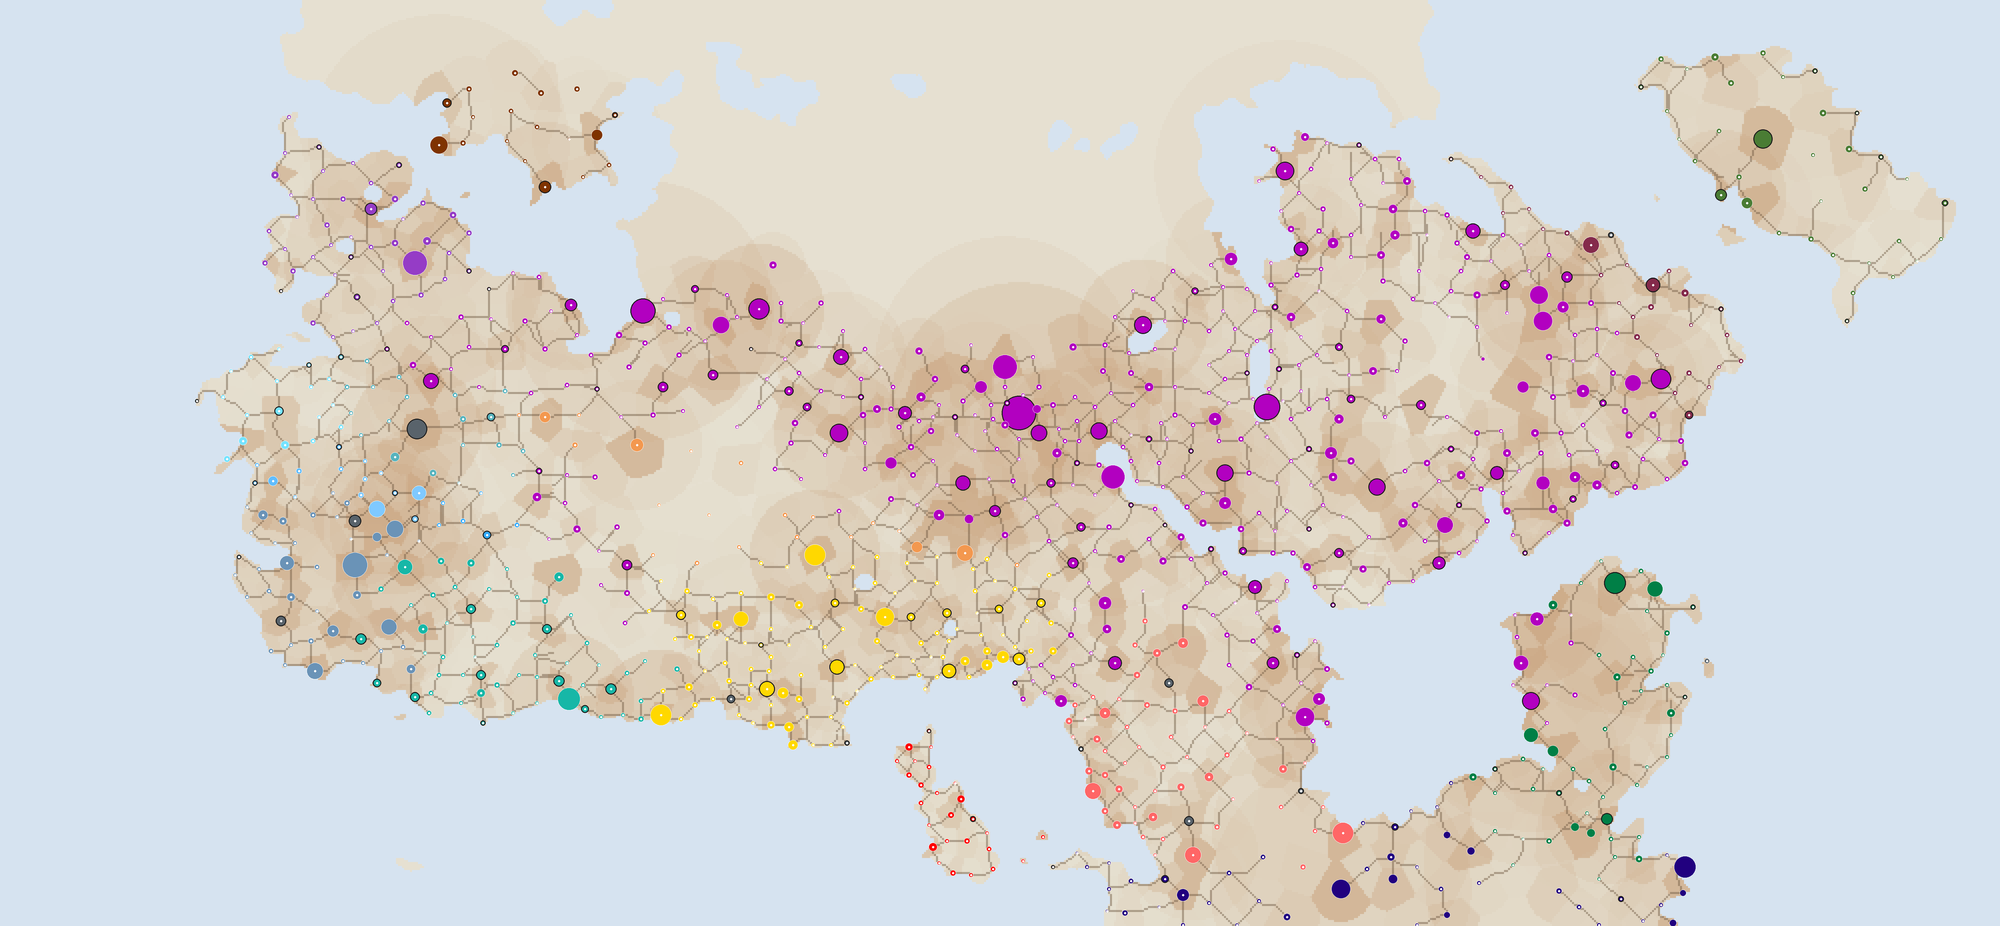
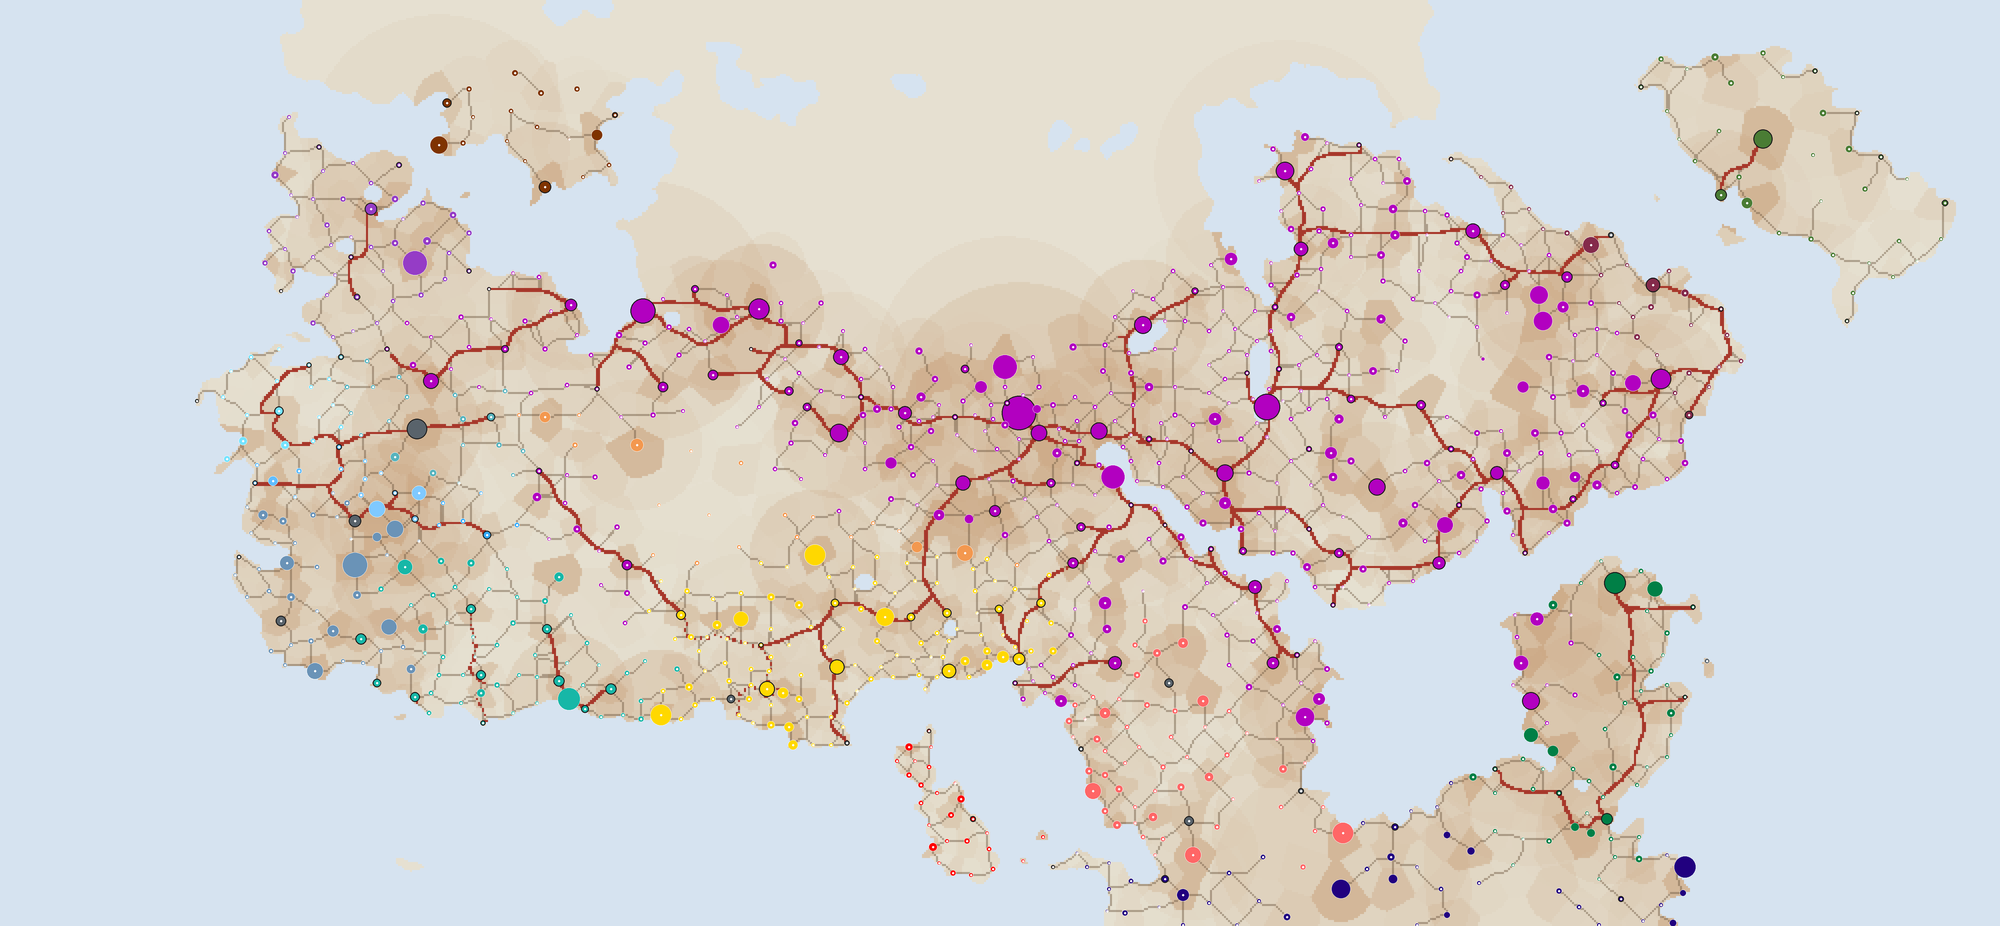
Settlements map: draw the main roads (minor tracks that seemed to end nowhere join them); white centres reproduced exactly
Claude-Session: https://claude.ai/code/session_01A8CRvxuUPVrZxyYzNDWcYn

diff --git a/scripts/publish_settlement_release3.py b/scripts/publish_settlement_release3.py
@@ -5,7 +5,8 @@ import numpy as np
 
 ROOT = Path(__file__).resolve().parents[1]; sys.path[:0] = [str(ROOT), str(ROOT / 'scripts')]
 from settlement_locations_earth import sha, write
-from publish_settlement_release2 import render
+from publish_settlement_release2 import render, main_roads
+ROADS_ITEM = dict(color='#a8382b', label='Red lines: the map’s drawn main roads (minor tracks end on them)')
 
 OUT = ROOT / 'output/settlement_release3_20261113'; DATA = ROOT / 'atlases/earth_fit/data'
 
@@ -26,7 +27,7 @@ def main():
         csv_file = target / mode / 'towns.csv'; shutil.copyfile(OUT / f'placed_{mode}_towns.csv', csv_file); options = []
         for scenario, label, role in (('central', 'sliding 100–500 people/ha', 'published method'), ('low', 'flat 100 people/ha', 'cautious alternative')):
             r = c['residents'][scenario]; file = target / mode / f'towns_{scenario}.webp'
-            render(mode, scenario, model['sites'], model['actors'], f, meta).save(file, lossless=True)
+            render(mode, scenario, model['sites'], model['actors'], f, meta, roads=main_roads(f['land'].shape)).save(file, lossless=True)
             note = (f"Release 3: town POSITIONS and SIZES both tested on Earth. Positions: the earlier town rule plus a pull towards the old "
                 f"heartlands (800 km) beat the earlier rule in {test['quadrant_wins']} of 8 regions of Han China and the Roman Empire, with the setting chosen on the other "
                 f"pool; {c['placement']['moved']} of {c['placement']['unmarked']} unmarked towns moved, every marked place stays, and the track network is rebuilt. "
@@ -40,7 +41,7 @@ def main():
                 items=[dict(color='#59636b', label='Circle area ∝ town residents (1,000 · 10,000 · 100,000 → radius 2.0 · 3.6 · 8.7 px)'),
                        dict(color='#1d1d1d', label='Dark outline: marked campaign place; white: proposed town'),
                        dict(color='#ffffff', label='White centre: fed by one day’s local grain collection'),
-                       dict(color='#8a7458', label='Brown lines: rebuilt minor tracks'),
+                       dict(color='#8a7458', label='Brown lines: rebuilt minor tracks'), ROADS_ITEM,
                        dict(color='#cca985', label='Darker land: larger share of rural people moved to towns')],
                 caption='Positions and sizes are calibrated patterns; an individual proposed town is one draw, not a prediction.'))
         packets[mode] = dict(shape=list(f['land'].shape), parent_payload_sha256=old['payload_sha256'],

diff --git a/scripts/redraw_settlement_roads.py b/scripts/redraw_settlement_roads.py
@@ -1,0 +1,41 @@
+"""Redraw the published release-4 Settlements images with the map's main roads (owner, 16 Nov 2026: "tiny roads that lead to
+nowhere" — 89 of 186 minor-track ends meet a drawn main road, which these images did not show). Only the drawing changes:
+towns, sizes and tracks are the published release-4 data. Updates the images' sha256 and legend in settlement_release3.json.
+
+    .venv/bin/python -I scripts/redraw_settlement_roads.py
+"""
+import json, sys
+from pathlib import Path
+import numpy as np
+
+ROOT = Path(__file__).resolve().parents[1]; sys.path[:0] = [str(ROOT), str(ROOT / 'scripts')]
+from settlement_locations_earth import sha, write
+from publish_settlement_release2 import render, main_roads
+from publish_settlement_release3 import ROADS_ITEM
+
+R4 = ROOT / 'output/settlement_release4_20261116/release3'; SUP = ROOT / 'output/settlement_release4_20261116/supply'; DATA = ROOT / 'atlases/earth_fit/data'
+
+
+def main():
+    meta = json.loads((DATA / 'atlas.json').read_text()); man = json.loads((DATA / 'settlement_release3.json').read_text())
+    for mode in ('raw', 'corrected'):
+        model = json.loads((R4 / f'placed_{mode}_sites.json').read_text()); f = dict(np.load(R4 / f'placed_{mode}_fields.npz'))
+        z = np.load(SUP / f'supply_{mode}.npz'); roads = main_roads(f['land'].shape)
+        for o in man['packets'][mode]['options']['reach_towns']:
+            scenario = {'release3_central': 'central', 'release3_low': 'low'}.get(o['value'])
+            if scenario is None:
+                continue
+            # white centre = fed including imports, exactly as the release-4 supply step drew it (central 34 %, low 14 %)
+            g = dict(f); g['local_support_share_' + scenario] = z[{'central': 'central_x34', 'low': 'low_x14'}[scenario] + '_fed_share']
+            file = DATA / o['file']
+            render(mode, scenario, model['sites'], model['actors'], g, meta, roads=roads).save(file, lossless=True)
+            o['file_sha256'] = sha(file)
+            if ROADS_ITEM not in o['items']:
+                i = next(k for k, it in enumerate(o['items']) if it['label'].startswith('Brown lines')) + 1
+                o['items'].insert(i, ROADS_ITEM)
+            print(mode, scenario, file.relative_to(DATA))
+    write(DATA / 'settlement_release3.json', man)
+
+
+if __name__ == '__main__':
+    main()

diff --git a/scripts/publish_wide_supply_release3.py b/scripts/publish_wide_supply_release3.py
@@ -6,7 +6,7 @@ from PIL import Image, ImageDraw
 
 ROOT = Path(__file__).resolve().parents[1]; sys.path[:0] = [str(ROOT), str(ROOT / 'scripts')]
 from settlement_locations_earth import sha, write
-from publish_settlement_release2 import render, radius, SCALE
+from publish_settlement_release2 import render, radius, SCALE, main_roads
 
 OUT = ROOT / 'output/settlement_wide_supply_20261113'; R3 = ROOT / 'output/settlement_release3_20261113'
 DATA = ROOT / 'atlases/earth_fit/data'; COLORS = {'self': '#3f8f5f', 'imports': '#3f78b4', 'short': '#c8503a'}
@@ -64,7 +64,8 @@ def main():
         for option in towns['packets'][mode]['options']['reach_towns']:
             density = option['value'].split('_')[1]; key = f'{density}_x39'; s = c[key]
             g = dict(f); g['local_support_share_' + density] = z[key + '_fed_share']
-            file = DATA / option['file']; render(mode, density, model['sites'], model['actors'], g, meta).save(file, lossless=True)
+            file = DATA / option['file']
+            render(mode, density, model['sites'], model['actors'], g, meta, roads=main_roads(f['land'].shape)).save(file, lossless=True)
             option['file_sha256'] = sha(file)
             sentence = (f"{s['self_sufficient_towns'] + s['fed_with_imports_towns']} of {s['towns']} towns (white centre) can be fed when grain may travel "
                         f"(39% of surplus marketed, the share that feeds Roman cities; see the grain supply map); " + (f"{s['short_towns']} of the largest stay short. " if s['short_towns'] else "none stay short. "))

diff --git a/scripts/publish_settlement_release2.py b/scripts/publish_settlement_release2.py
@@ -15,7 +15,13 @@ def radius(people):
     return 1.2 + np.sqrt(people) / 42.0          # px at 2000 px width: 1k 2.0, 10k 3.6, 100k 8.7, 250k 13.1
 
 
-def render(mode, scenario, sites, actors, f, meta):
+def main_roads(shape):
+    """The map's drawn main roads on the model grid (as polity.economic_world), for drawing under the towns."""
+    from polity import fields as F
+    return F.block_any(F.rgba('roads.png')[..., 3] > 0, shape)
+
+
+def render(mode, scenario, sites, actors, f, meta, roads=None):
     land = f['land']; h, w = land.shape; W, H = meta['width'] * SCALE, meta['height'] * SCALE
     rural = np.divide(f['rural_' + scenario], f['people'], out=np.ones_like(f['people']), where=f['people'] > 0)
     rgb = np.empty((h, w, 3)); rgb[:] = [.84, .89, .94]
@@ -23,6 +29,8 @@ def render(mode, scenario, sites, actors, f, meta):
     rgb[land] = np.array([.90, .88, .82]) * (1 - drawn) + np.array([.80, .66, .52]) * drawn
     if 'tracks' in f:
         rgb[f['tracks'] & land] = rgb[f['tracks'] & land] * .55 + np.array([.42, .33, .24]) * .45
+    if roads is not None:                      # drawn main roads: the minor tracks end on them
+        rgb[roads & land] = np.array([.66, .22, .17])
     image = Image.fromarray(np.rint(rgb * 255).astype('u1')).resize((W, H), Image.Resampling.NEAREST)
     draw = ImageDraw.Draw(image); px = W / w
     people = f['residents_' + scenario]; support = f['local_support_share_' + scenario]
